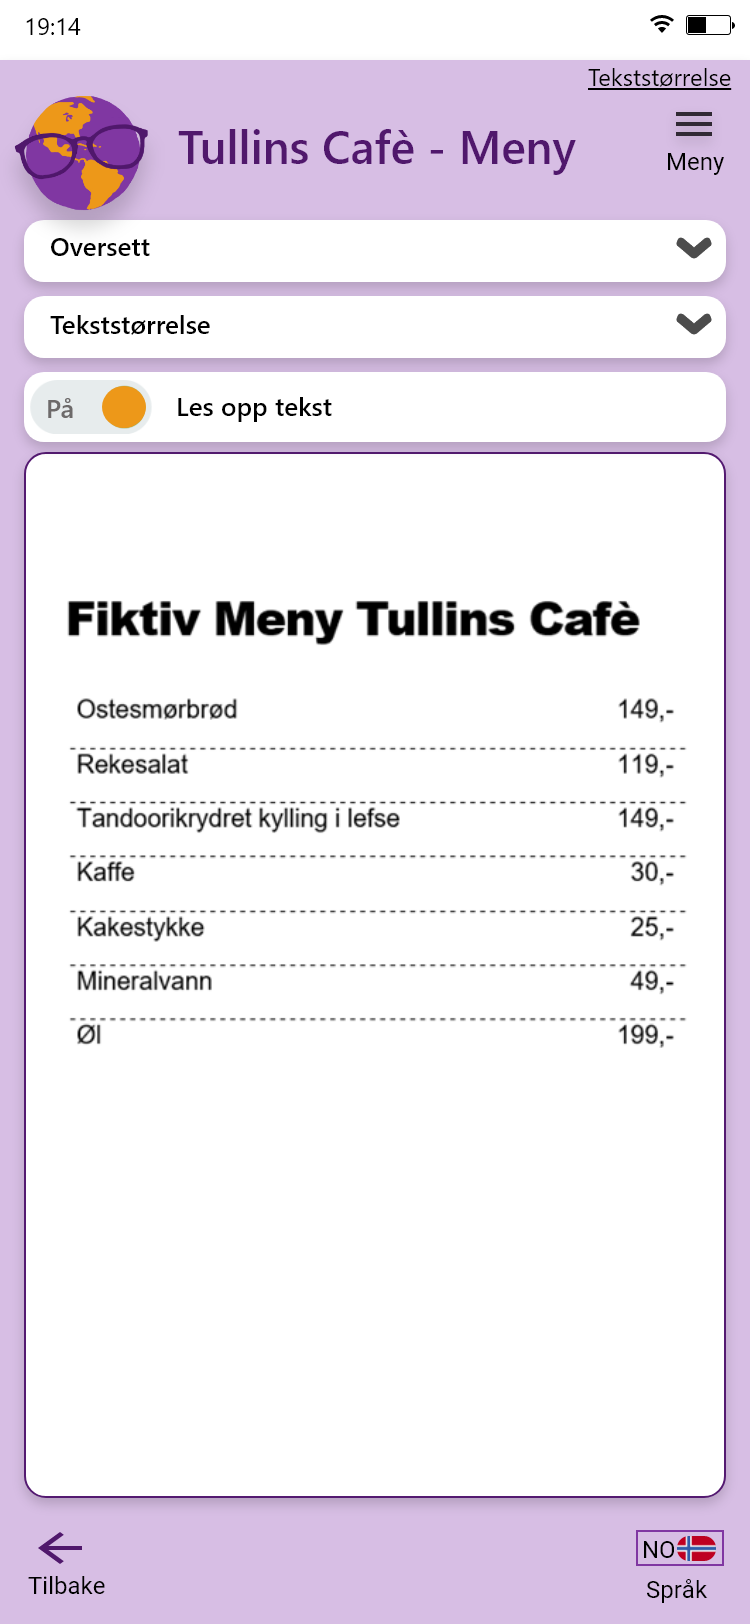
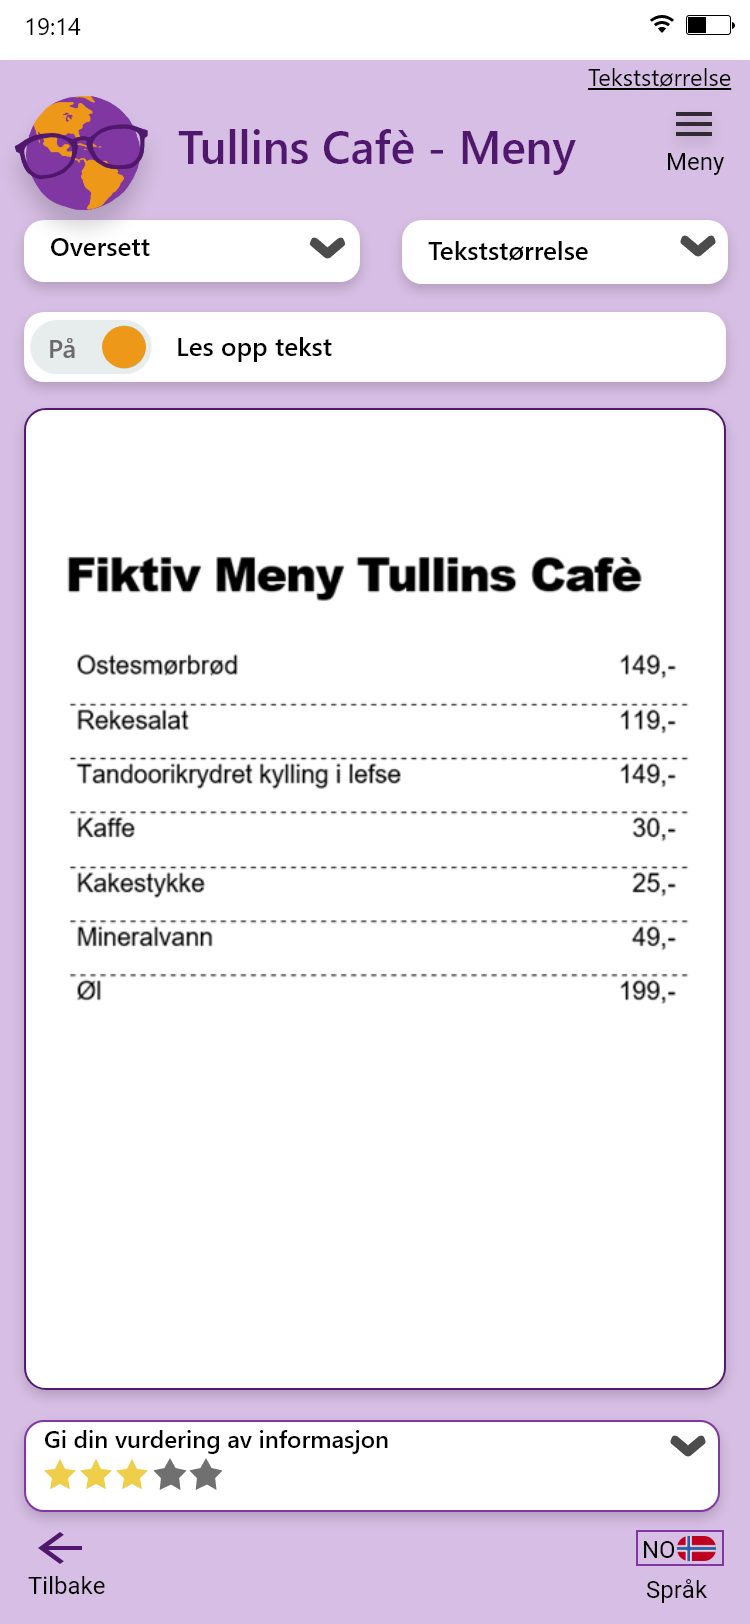
text and screenshot

Changed region(s): [[0.092, 0.3387, 0.92, 0.6466], [0.0307, 0.1232, 0.9813, 0.3079], [0.0307, 0.8313, 0.9813, 0.9544]]

diff --git a/product.html b/product.html
@@ -268,7 +268,8 @@
                 <img class="slideImages" id="screenshot1" src="media/screenshot2.png" alt="A screenshot of the applications menu screen">
                 <p class="text">
                     By default the application's menu will show you either a map of your surroundings or have it interpret it audibly for you. 
-                    Based on the information in our database, the app will give you an oversight of locations that it supports.
+                    Based on the information in our database, the app will give you an oversight of locations that it supports. Users have also the ability to
+                    rate a document, to ensure trust in the application.
                 </p>
             </div>
 
